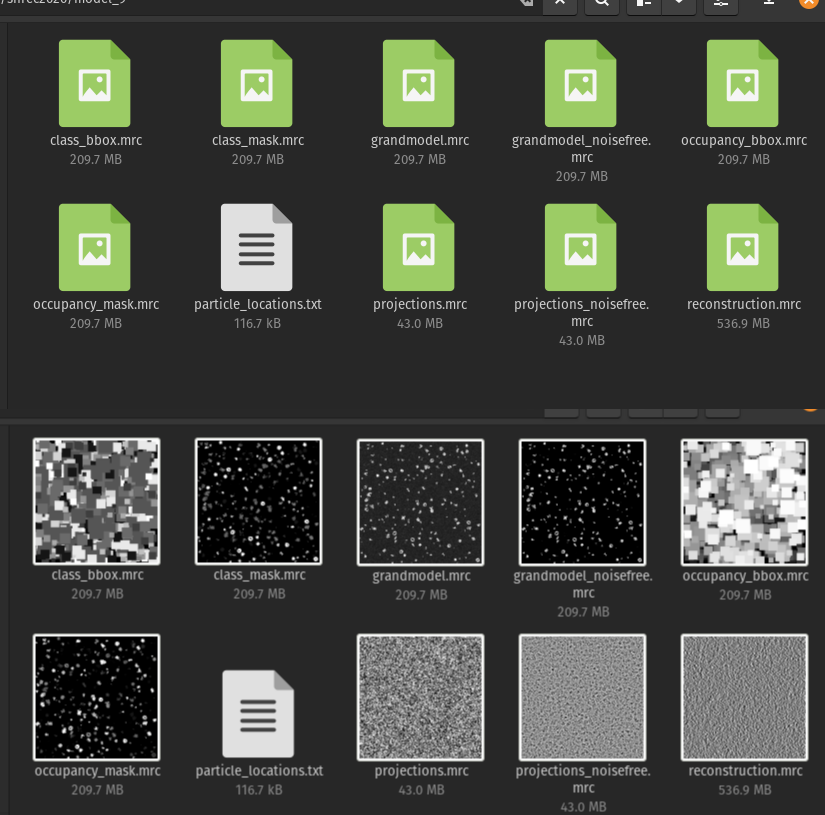
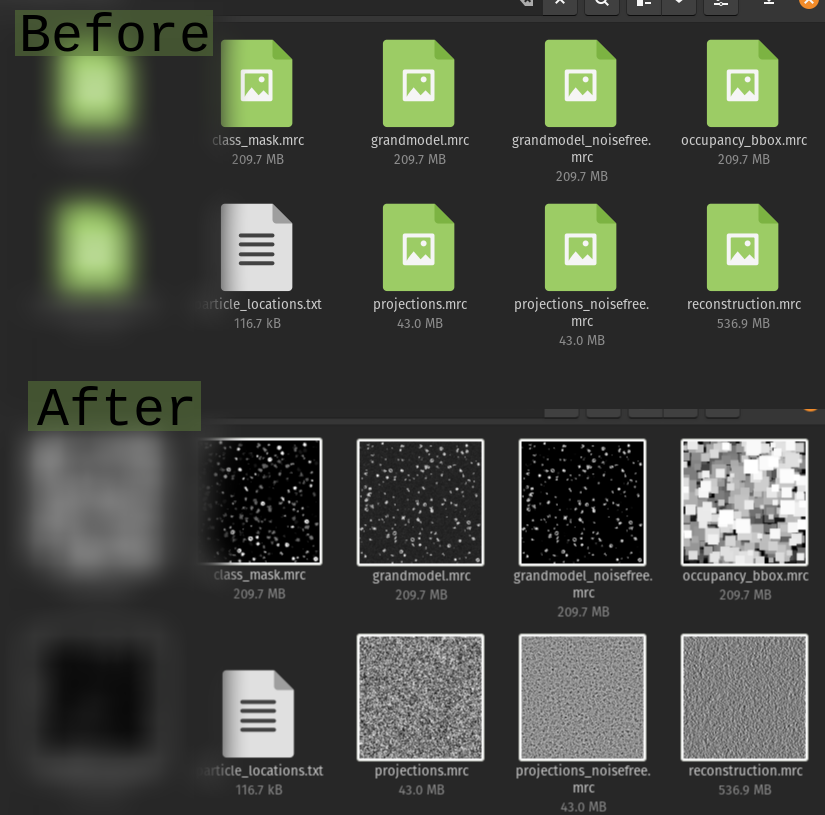
Updated demo image and made readme a bit more clear

diff --git a/README.md b/README.md
@@ -8,18 +8,15 @@ Tested on Pop OS 20.10, Nautilus file browser.
 ![Before and after](demo.png)
 
 # Installation
-Clone the repository: `git clone git@github.com:the-lay/mrc-gnome-thumbnailer.git`
-
-Change directory: `cd mrc-gnome-thumbnailer`
-
-Run make install: `sudo make install`
-
-Delete thumbnails folder: `rm -r ~/.cache/thumbnails`
-
-Quit all Nautilus processes: `nautilus -q`
-
-__Even if you currently do not have any Nautilus windows open, you should run the command above!__
-
+1. Quit all Nautilus processes: `nautilus -q`
+   - __Even if you currently do not have any Nautilus windows open, you should run the command above!__
+2. Delete thumbnails folder: `rm -r ~/.cache/thumbnails`
+3. Clone the repository: `git clone git@github.com:the-lay/mrc-gnome-thumbnailer.git`
+4. Change directory: `cd mrc-gnome-thumbnailer`
+5. Run make install: `sudo make install`
+   - The script uses PIP to install necessary python packages. If you do not have system-wide pip installation,
+    please setup it first with `sudo apt install python3-pip`.
+     
 From now on, the thumbnails should be visible.
 
 # Troubleshooting
@@ -32,3 +29,5 @@ and many more threads online). The short workaround fix would be to install a bw
 sudo wget -O /usr/local/bin/bwrap https://raw.githubusercontent.com/NicolasBernaerts/ubuntu-scripts/master/nautilus/bwrap
 sudo chmod +rx /usr/local/bin/bwrap
 ```
+I strongly do *not* recommend this workaround.
+Instead, consider updating to the latest version of Ubuntu, where this issue is already fixed.
